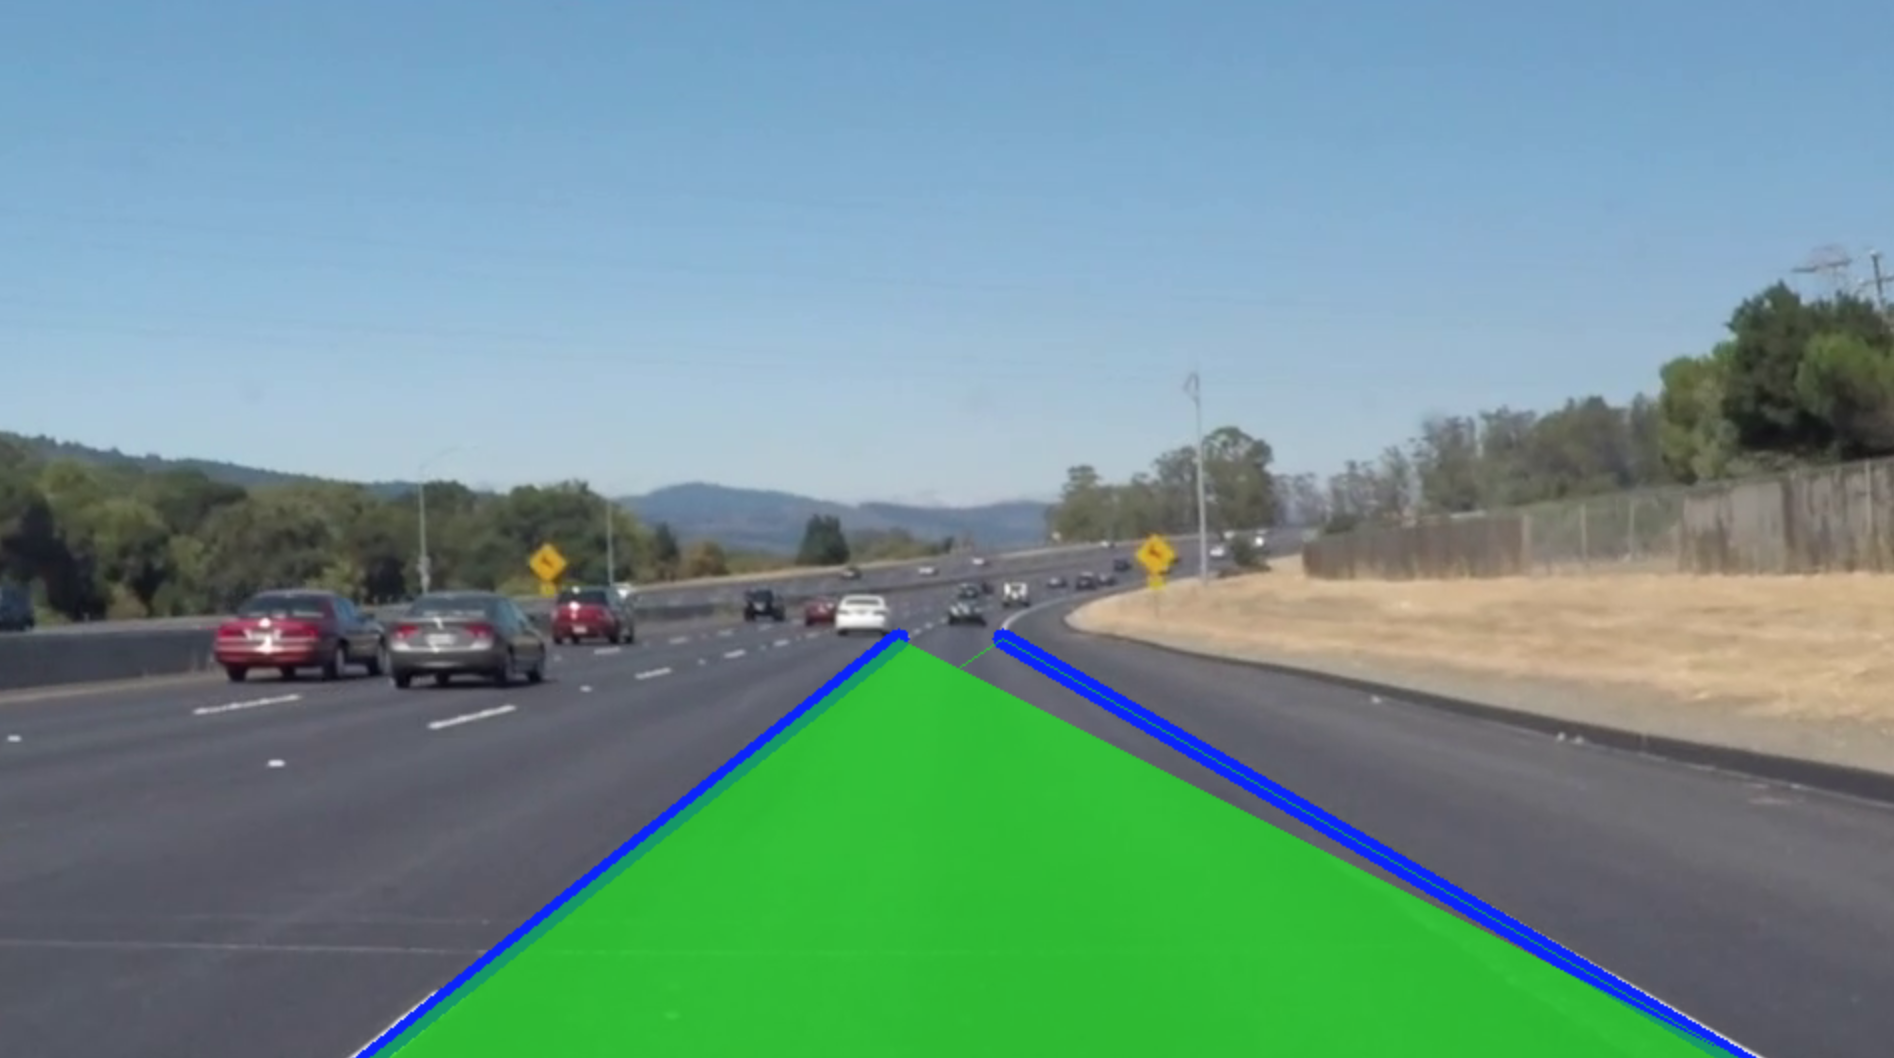
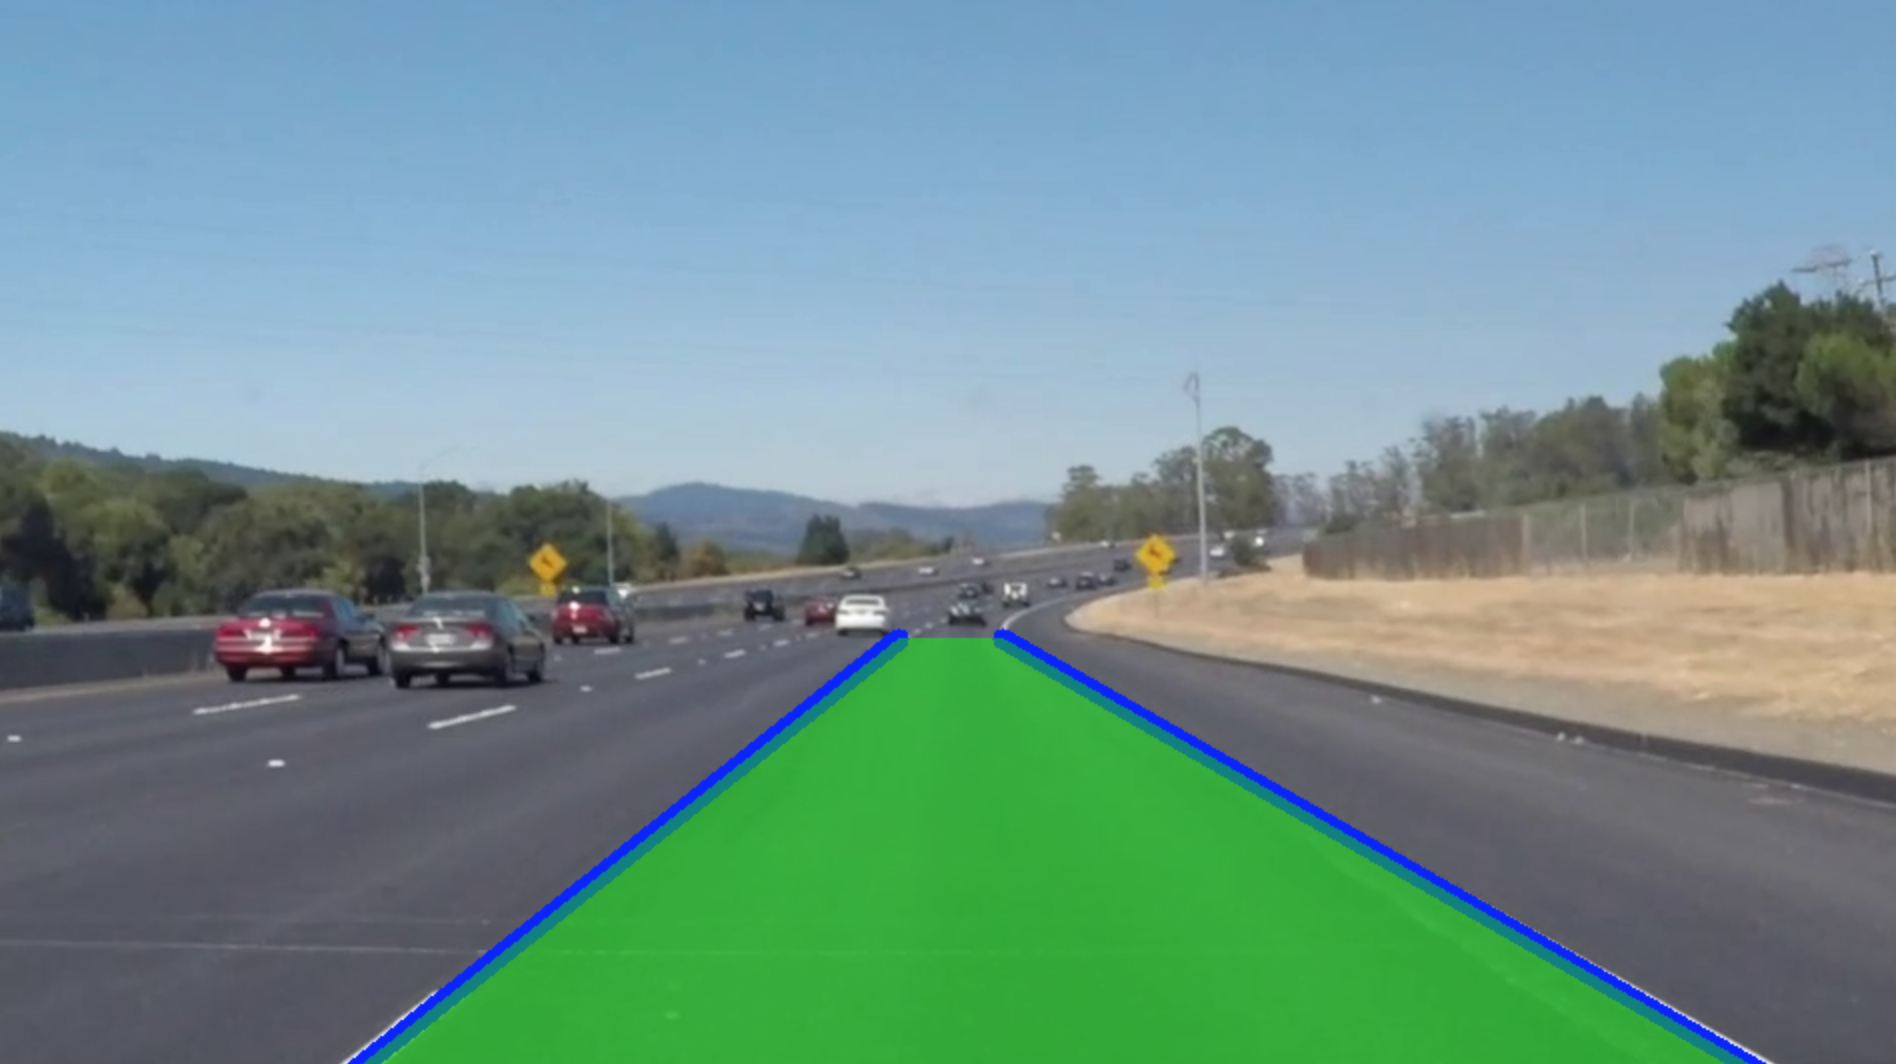
Fixed lane detection trapezoid (for show).

diff --git a/python/lane_detection.py b/python/lane_detection.py
@@ -115,13 +115,14 @@ def plotDetectedEgoLane(image, leftLane, rightLane):
         cv2.line(line_image, (x3, y3), (x4, y4), (255, 0, 0), 10)
     cv2.addWeighted(line_image, 1.0, line_image, 0.95, 0.0)
     if leftLane is not None and rightLane is not None:
-        pts = np.array([[x1, y1], [x2, y2], [x3, y3], [x4, y4]], dtype=np.int32)
         # Create a copy of the original
         overlay = line_image.copy()
-        # Draw polygon based on pts
-        cv2.fillConvexPoly(overlay, pts, (0, 255, 0))
+        # Draw trapezoid
+        trapezoid = np.asarray([(x1, y1), (x2, y2), (x4, y4), (x3, y3)])
+        trapezoid = np.expand_dims(trapezoid, 1).astype(np.int32)
+        overlay = cv2.fillPoly(overlay,[trapezoid], color=(0, 255, 0))
         # Combine with original
-        opacity = 0.4
+        opacity = 0.5
         cv2.addWeighted(line_image, opacity, overlay, 1-opacity, 0, line_image)
     return line_image
 
